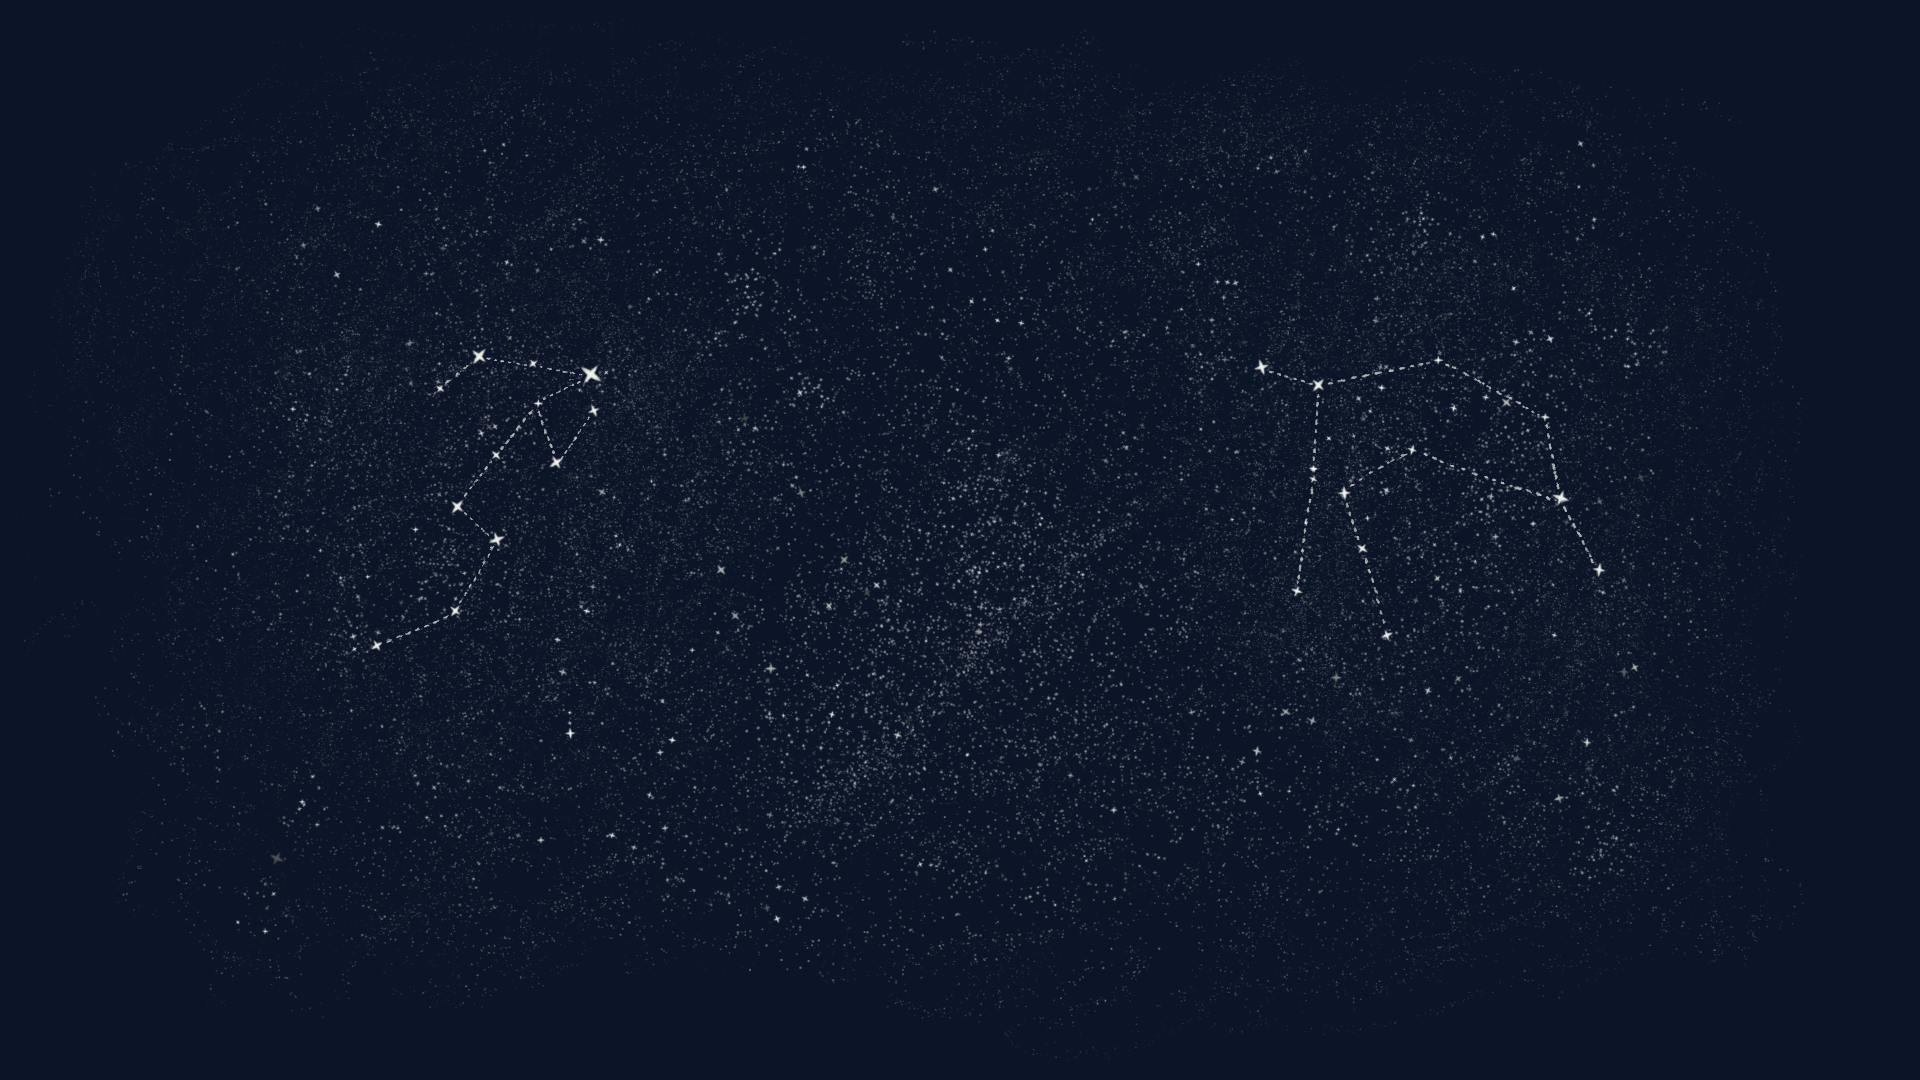
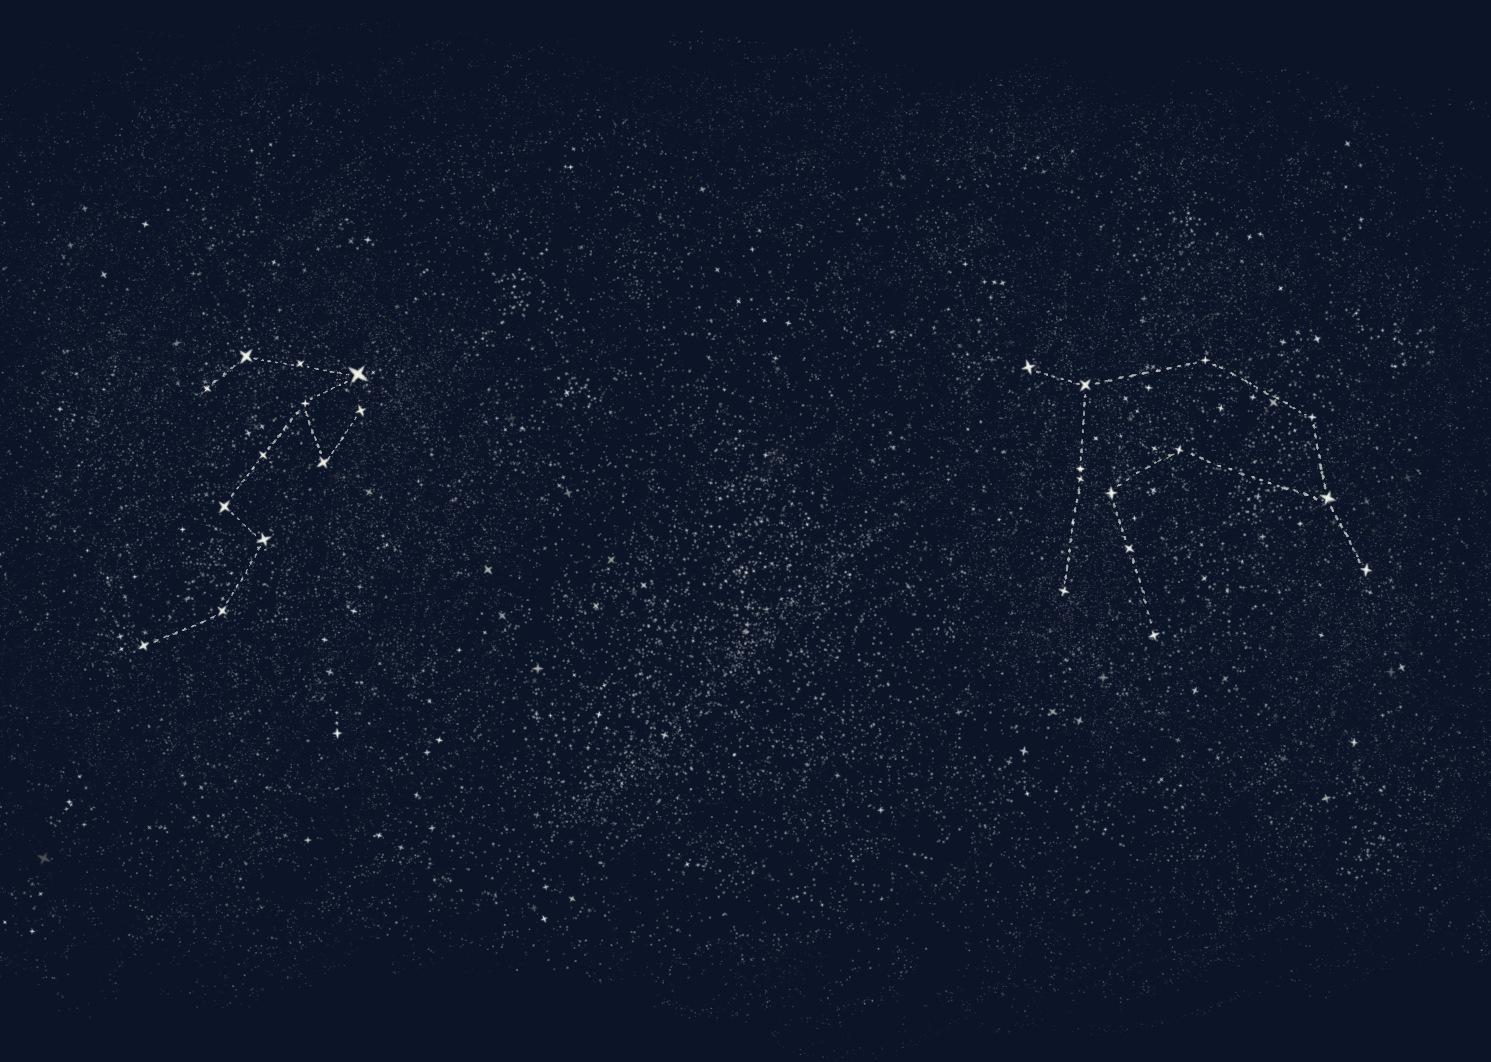
minor tweaks
slower title gif, replaced line of text at end of title, resized and shifted constellation imgs

diff --git a/index.html b/index.html
@@ -25,15 +25,15 @@
         <!--page content-->
         <div class= "content">
             <div class= "row no-margin" id ="titleBackground">
-                <img src="img/background2.gif" id="stars">
+                <img src="img/background3.gif" id="stars">
                 <img src="img/front.png" id="front">
                 <img src="img/middle.png" id="middle">
                 <img src="img/back.png" id="back"> 
                 <div class="center">       
                     <p class ="titletext" id="opener">Since the dawn of time, humans have spent half their time under skies like these.</h>
                     <p class ="titletext">But today, 80% of people in North America can't see the Milky Way.</p>
-                    <p class ="titletext">The culprit: nighttime lights that have proliferated since the advent of the lightbulb..</p>
-                    <p class ="titletext" id="closer">In many urban areas, only the brightest dozen stars can be seen, where thousands were once visible. </p>
+                    <p class ="titletext">The culprit: nighttime lights that have proliferated since the advent of the lightbulb.</p>
+                    <p class ="titletext">In many urban areas, only the brightest dozen stars can be seen, where thousands were once visible. </p>
                 </div>     
             </div>
         </div>
@@ -97,13 +97,13 @@
                 <div class="drawing">
                     <img src="img/drawing.png">
                     <div class="lefttext">
-                        Unshieled fixtures emit light upwards as waste.
+                        Unshielded fixtures emit light upwards as waste.
                     </div>
                     <div class="middletext">
                         Other lights reflect off nearby surfaces.
                     </div>
                     <div class="righttext">
-                        Blue-white LEDs are generally several times brighter, <br> producing more light pollution.
+                        LEDs are generally much brighter.
                     </div>
                     </div>
                 <div class="row">

diff --git a/css/style.css b/css/style.css
@@ -204,8 +204,8 @@ text.e{
 
 .righttext {
 	position: absolute;
-	top: 50%;
-	right: 2%;
+	top: 55%;
+	right: 8%;
 	color: #f7f8e7;
 	font-size: 16pt;
 }
@@ -298,21 +298,10 @@ p.titletext {
 	width: 100%;
 }
 
-.constrow {
-	margin-bottom: 100px;
+#constAustin {
+	translate: 0 -10%;
 }
 
-#constbase{
-	opacity: 100;
-}
-
-#constfade1 {
-	opacity: 0;
-}
-
-#constfade2 {
-	opacity: 0;
-}
 
 /* end constellation graphic styling*/  
 
